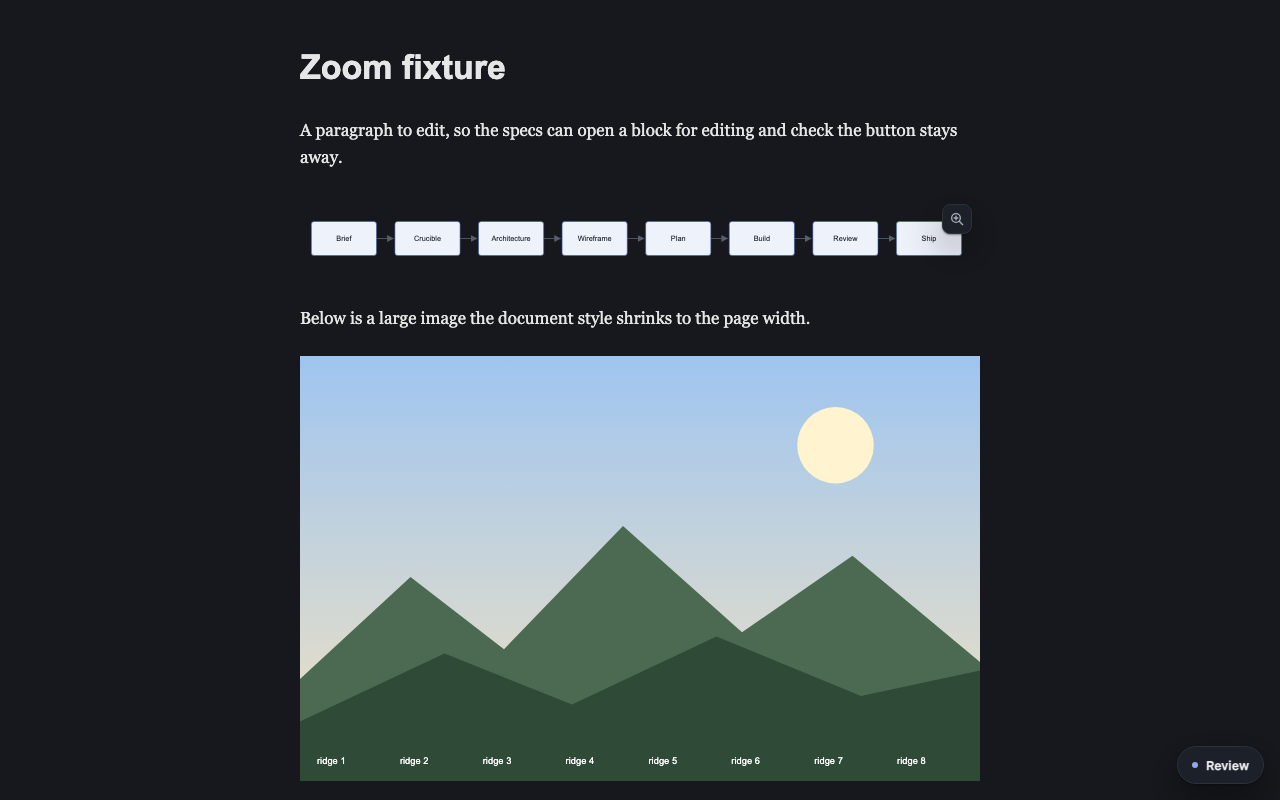
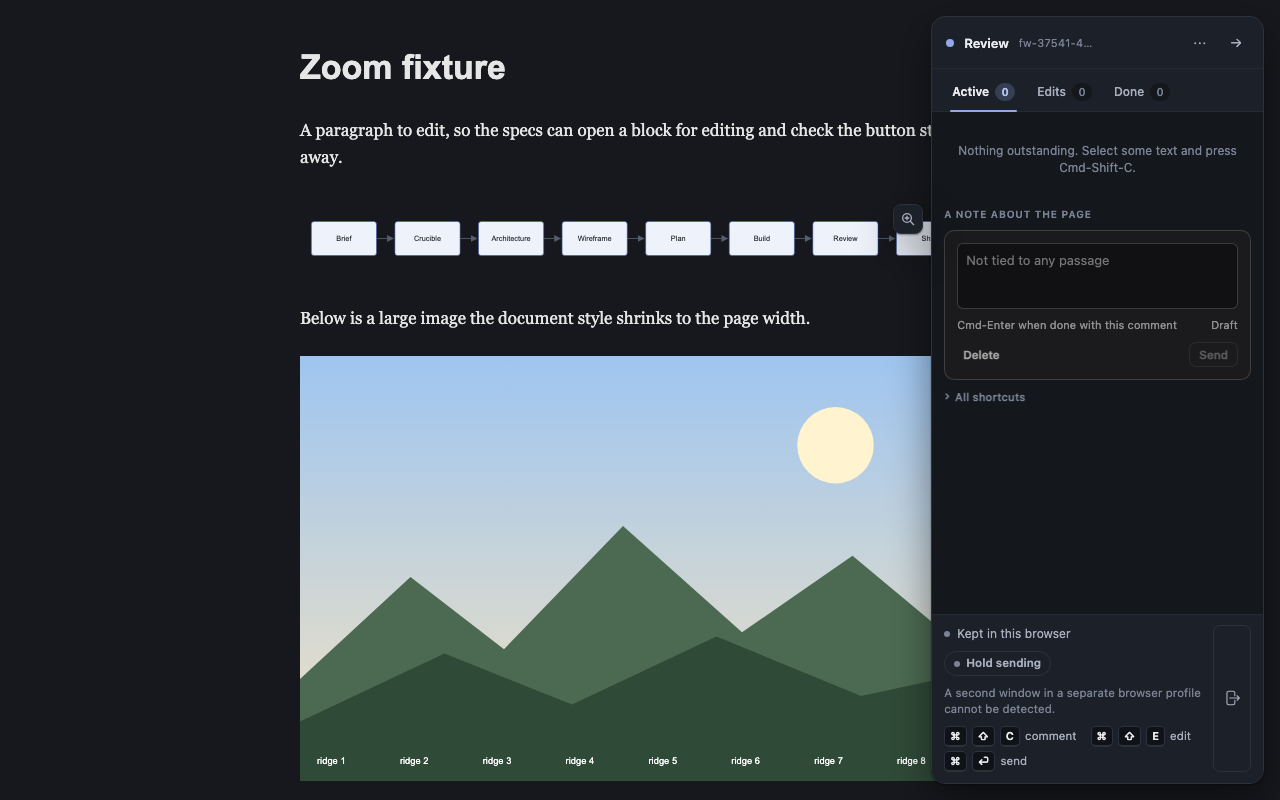
Zoom viewer: put the button on the picture's visible part, clear of the open rail
Found on a real page (the module map rendered, rail open, 1280x800): the
button sat at the target's own top right corner. The wide graph passed under
the open rail, so the button drew on the rail, inside its note box. The graph
is also very tall, and once scrolled the corner was off screen.

The button now goes at the top right of the target's visible part: its rect
cut to the window and, while the rail is open, to the left of the rail. The
rail's edge is read the way comments.js and editing.js already keep clear of
it, from the allowance the rail publishes on the library's host. That number
stays published while the rail is collapsed, so boot passes a railOpen check.
When no visible part can hold the button there is none. Scroll and resize
reposition it at most once a frame.

The placement is a pure function (buttonSpot) with unit tests. Browser tests
cover the rail-open case, a tall graph scrolled past its top, and the button
following a scroll. The last two passed before this change too, since the old
placement already clamped to the window; they stay as regression tests.
Screenshots of the button are retaken with the rail open.

diff --git a/src/layer/zoom.js b/src/layer/zoom.js
@@ -198,6 +198,31 @@
     return Math.max(shown.width, shown.height) >= IMG_MIN_LONG;
   }
 
+  /**
+   * Where the button goes: the top right corner of the picture's VISIBLE part,
+   * which is its rect cut to the window and, when the rail is open, to the left
+   * of the rail. The picture's own corner is the wrong place twice over: on a
+   * tall graph scrolled past its top it is off screen, and on a wide one that
+   * passes under the open rail it lands on the rail (Ken's module map, with the
+   * button inside the rail's note box).
+   *
+   * @param {{left:number,top:number,right:number,bottom:number}} r the picture's rect
+   * @param {number} vw
+   * @param {number} vh
+   * @param {number|null} railLeft the open rail's left edge, or null when it is collapsed
+   * @returns {{left:number,top:number}|null} null when no visible part can hold a button
+   */
+  function buttonSpot(r, vw, vh, railLeft) {
+    var right = Math.min(r.right, vw);
+    if (railLeft !== null && railLeft !== undefined) right = Math.min(right, railLeft);
+    var left = Math.max(r.left, 0);
+    var top = Math.max(r.top, 0);
+    var bottom = Math.min(r.bottom, vh);
+    var need = BUTTON_SIZE + 2 * BUTTON_INSET;
+    if (right - left < need || bottom - top < need) return null;
+    return { left: right - BUTTON_INSET - BUTTON_SIZE, top: top + BUTTON_INSET };
+  }
+
   /** The view that fits w by h into the window with a margin, centred. */
   function fitView(vw, vh, w, h, margin) {
     var m = margin === undefined ? MARGIN : margin;
@@ -329,6 +354,7 @@
    * @param {Window}   [opts.window]
    * @param {object}   [opts.highlights]  the library's one surface (highlight.shared)
    * @param {function} [opts.blocked]     true while editing, picking or presenting
+   * @param {function} [opts.railOpen]    true while the rail is open (not collapsed)
    * @param {object}   [opts.listeners]   the listener registry
    */
   function createZoom(options) {
@@ -338,6 +364,8 @@
     var highlights = opts.highlights || highlightModule.shared;
     var registry = opts.listeners || listeners.shared;
     var blockedBy = typeof opts.blocked === "function" ? opts.blocked : function () { return false; };
+    // Is the rail open right now? Boot answers from the rail itself.
+    var railOpen = typeof opts.railOpen === "function" ? opts.railOpen : function () { return false; };
 
     var dom = null; // { host, shadow, button, viewer, content, pct, controls }
     var handles = [];
@@ -485,17 +513,30 @@
     // The button
     // -------------------------------------------------------------------------
 
+    /**
+     * The open rail's left edge, or null while it is collapsed.
+     *
+     * Read the way comments.js and editing.js keep clear of the rail: the rail
+     * publishes how much of the right edge it takes as a custom property on the
+     * library's one page-level host (highlight.RAIL_ALLOWANCE_PROP), because its
+     * own rect is inside its closed root. That number stays published while the
+     * rail is collapsed, so whether it is open comes from boot (opts.railOpen).
+     */
+    function railLeft() {
+      if (!railOpen()) return null;
+      var host = doc.getElementById(highlightModule.SURFACE_ID);
+      if (!host) return null;
+      var px = parseFloat(win.getComputedStyle(host).getPropertyValue(highlightModule.RAIL_ALLOWANCE_PROP));
+      return isFinite(px) && px > 0 ? win.innerWidth - px : null;
+    }
+
+    /** Put the button on the target's visible part. False when there is none. */
     function placeButton() {
-      if (!dom || !target) return;
-      var r = target.getBoundingClientRect();
-      var vw = win.innerWidth;
-      var vh = win.innerHeight;
-      var left = Math.min(r.right, vw) - BUTTON_INSET - BUTTON_SIZE;
-      var top = Math.max(r.top, 0) + BUTTON_INSET;
-      // Kept on the picture while any of it is on screen.
-      top = Math.min(top, Math.min(r.bottom, vh) - BUTTON_SIZE - BUTTON_INSET);
-      left = Math.max(left, Math.max(r.left, 0) + BUTTON_INSET);
-      dom.button.style.transform = "translate(" + Math.round(left) + "px," + Math.round(top) + "px)";
+      if (!dom || !target) return false;
+      var spot = buttonSpot(target.getBoundingClientRect(), win.innerWidth, win.innerHeight, railLeft());
+      if (!spot) return false;
+      dom.button.style.transform = "translate(" + Math.round(spot.left) + "px," + Math.round(spot.top) + "px)";
+      return true;
     }
 
     function cancelHide() {
@@ -514,7 +555,10 @@
       }
       target = next;
       focusOrigin = origin || null;
-      placeButton();
+      if (!placeButton()) {
+        hideNow();
+        return;
+      }
       dom.button.setAttribute("data-shown", "true");
       shown = true;
     }
@@ -626,9 +670,17 @@
       dom.button.focus();
     }
 
+    // Scroll and resize move the visible part, so the button follows, once a
+    // frame at most: a scroll fires far more often than the screen repaints.
+    var placeFrame = null;
+
     function onScrollOrResize() {
       lastNode = null;
-      if (shown && !openOn) placeButton();
+      if (!shown || openOn || placeFrame !== null) return;
+      placeFrame = win.requestAnimationFrame(function () {
+        placeFrame = null;
+        if (shown && !openOn && !placeButton()) hideNow();
+      });
     }
 
     // -------------------------------------------------------------------------
@@ -909,6 +961,8 @@
     }
 
     function teardown() {
+      if (placeFrame !== null) win.cancelAnimationFrame(placeFrame);
+      placeFrame = null;
       close();
       hideNow();
       unbind();
@@ -994,6 +1048,9 @@
     SVG_MIN_SIDE: SVG_MIN_SIDE,
     IMG_MIN_LONG: IMG_MIN_LONG,
     MIN_SIDE: MIN_SIDE,
+    BUTTON_SIZE: BUTTON_SIZE,
+    BUTTON_INSET: BUTTON_INSET,
+    buttonSpot: buttonSpot,
     MARGIN: MARGIN,
     MIN_SCALE: MIN_SCALE,
     MAX_SCALE: MAX_SCALE,

diff --git a/test/browser/zoom_viewer.spec.js b/test/browser/zoom_viewer.spec.js
@@ -148,6 +148,66 @@ test.describe("zoom viewer: the hover button", () => {
     });
   });
 
+  test("rail open: the button keeps clear of the rail, on the graph's visible part", async ({ page }) => {
+    await open(page);
+    await page.evaluate(() => window.__lahe.rail.collapse(false));
+    const rail = await page.evaluate(() => window.__lahe.rail.geometry().rail);
+    expect(rail, "the rail is open").not.toBeNull();
+    // Over the left half of the graph, which is clear of the rail.
+    await page.evaluate(() => document.querySelector("#mermaid-1").scrollIntoView({ block: "center" }));
+    const svg = await page.locator("#mermaid-1").boundingBox();
+    expect(svg.x + svg.width, "the graph passes under the rail").toBeGreaterThan(rail.left);
+    await page.mouse.move(svg.x + 40, svg.y + svg.height / 2, { steps: 4 });
+    const button = await buttonShownFor(page, "mermaid-1");
+    const b = button.rect;
+    const overlaps = b.x < rail.right && rail.left < b.x + b.width && b.y < rail.bottom && rail.top < b.y + b.height;
+    expect(overlaps, "the button is not on the rail").toBe(false);
+    expect(b.x).toBeGreaterThanOrEqual(svg.x);
+    expect(b.x + b.width).toBeLessThanOrEqual(rail.left);
+    expect(b.y).toBeGreaterThanOrEqual(svg.y);
+    expect(b.y + b.height).toBeLessThanOrEqual(svg.y + svg.height);
+  });
+
+  test("a tall graph scrolled past its top: the button is on screen, on the graph", async ({ page }) => {
+    await open(page);
+    // The middle of the graph in the middle of the window, so its top is far above.
+    await page.evaluate(() => {
+      const r = document.getElementById("tall").getBoundingClientRect();
+      window.scrollBy(0, r.top + r.height / 2 - window.innerHeight / 2);
+    });
+    const svg = await page.locator("#tall").boundingBox();
+    expect(svg.y, "the graph's top is off screen").toBeLessThan(0);
+    await page.mouse.move(svg.x + 100, 400, { steps: 4 });
+    const b = (await buttonShownFor(page, "tall")).rect;
+    const vp = page.viewportSize();
+    expect(b.y).toBeGreaterThanOrEqual(0);
+    expect(b.y + b.height).toBeLessThanOrEqual(vp.height);
+    expect(b.x).toBeGreaterThanOrEqual(svg.x);
+    expect(b.x + b.width).toBeLessThanOrEqual(svg.x + svg.width);
+  });
+
+  test("scrolling while a graph is hovered: the button follows", async ({ page }) => {
+    await open(page);
+    await page.evaluate(() => document.querySelector("#tall").scrollIntoView({ block: "start" }));
+    const svg = await page.locator("#tall").boundingBox();
+    await page.mouse.move(svg.x + 100, svg.y + 200, { steps: 4 });
+    const before = (await buttonShownFor(page, "tall")).rect;
+    // The page moves under a still pointer: down 300, so the graph's top is
+    // above the window and the button has to come down with the visible part.
+    await page.evaluate(() => window.scrollBy(0, 300));
+    await pollPage(
+      page,
+      (y) => {
+        const b = window.__lahe.handle.zoom.info().button;
+        return b.shown && Math.abs(b.rect.y - y) < 1;
+      },
+      before.y,
+      { message: "the button to stay at the top of the visible part after scrolling" }
+    );
+    const top = (await page.locator("#tall").boundingBox()).y;
+    expect(top, "the graph's own top moved off screen").toBeLessThan(0);
+  });
+
   test("a nested svg gets no button of its own: the outer one does", async ({ page }) => {
     await open(page);
     await page.evaluate(() => document.querySelector("#outer").scrollIntoView({ block: "center" }));
@@ -436,15 +496,19 @@ test.describe("zoom viewer: screenshots", () => {
     test("hover button and zoomed viewer, " + scheme, async ({ page }) => {
       await page.setViewportSize({ width: 1280, height: 800 });
       await open(page, scheme === "dark" ? "?dark" : "");
-      await hoverOn(page, "#mermaid-1");
-      const button = await buttonShownFor(page, "mermaid-1");
-      await page.mouse.move(centre(button.rect).x - 120, centre(button.rect).y + 30);
+      // The rail open over the wide graph's right end, so the picture shows the
+      // button kept clear of it.
+      await page.evaluate(() => window.__lahe.rail.collapse(false));
+      await page.evaluate(() => document.querySelector("#mermaid-1").scrollIntoView({ block: "center" }));
+      const svg = await page.locator("#mermaid-1").boundingBox();
+      await page.mouse.move(svg.x + 160, svg.y + svg.height / 2, { steps: 4 });
       await buttonShownFor(page, "mermaid-1");
       await pollPage(page, () => window.__lahe.handle.zoom.info().button.opacity === 1, undefined, {
         message: "the button's fade-in to finish"
       });
       await page.screenshot({ path: path.join(SHOT_DIR, "button_" + scheme + ".png") });
 
+      await page.evaluate(() => window.__lahe.rail.collapse(true));
       const viewer = await openViewerOn(page, "#mermaid-1");
       const at = { x: viewer.contentRect.x + viewer.contentRect.width * 0.35, y: viewer.contentRect.y + viewer.contentRect.height / 2 };
       await page.mouse.move(at.x, at.y);

diff --git a/test/fixtures/zoom/zoom.html b/test/fixtures/zoom/zoom.html
@@ -39,6 +39,7 @@
       <text x="220" y="105" font-family="Arial" font-size="18" fill="#333">nested svg</text>
     </svg>
   </figure>
+  <figure><svg id="tall" xmlns="http://www.w3.org/2000/svg" width="600" height="2400" viewBox="0 0 600 2400"><rect width="600" height="2400" fill="#f1ede4"/><rect x="40" y="60" width="120" height="60" fill="#3c56a5"/><text x="40" y="50" font-family="Arial" font-size="18" fill="#333">step 1</text><rect x="40" y="260" width="145" height="60" fill="#3c56a5"/><text x="40" y="250" font-family="Arial" font-size="18" fill="#333">step 2</text><rect x="40" y="460" width="170" height="60" fill="#3c56a5"/><text x="40" y="450" font-family="Arial" font-size="18" fill="#333">step 3</text><rect x="40" y="660" width="195" height="60" fill="#3c56a5"/><text x="40" y="650" font-family="Arial" font-size="18" fill="#333">step 4</text><rect x="40" y="860" width="220" height="60" fill="#3c56a5"/><text x="40" y="850" font-family="Arial" font-size="18" fill="#333">step 5</text><rect x="40" y="1060" width="245" height="60" fill="#3c56a5"/><text x="40" y="1050" font-family="Arial" font-size="18" fill="#333">step 6</text><rect x="40" y="1260" width="270" height="60" fill="#3c56a5"/><text x="40" y="1250" font-family="Arial" font-size="18" fill="#333">step 7</text><rect x="40" y="1460" width="295" height="60" fill="#3c56a5"/><text x="40" y="1450" font-family="Arial" font-size="18" fill="#333">step 8</text><rect x="40" y="1660" width="320" height="60" fill="#3c56a5"/><text x="40" y="1650" font-family="Arial" font-size="18" fill="#333">step 9</text><rect x="40" y="1860" width="345" height="60" fill="#3c56a5"/><text x="40" y="1850" font-family="Arial" font-size="18" fill="#333">step 10</text><rect x="40" y="2060" width="370" height="60" fill="#3c56a5"/><text x="40" y="2050" font-family="Arial" font-size="18" fill="#333">step 11</text><rect x="40" y="2260" width="395" height="60" fill="#3c56a5"/><text x="40" y="2250" font-family="Arial" font-size="18" fill="#333">step 12</text></svg></figure>
   <svg id="hidden-svg" width="600" height="400" viewBox="0 0 600 400"><rect width="600" height="400"/></svg>
   <p id="elsewhere">Where the graph's linked node points.</p>
   <p id="linked">The end of the page, where the photo's link points.</p>

diff --git a/test/unit/zoom.test.js b/test/unit/zoom.test.js
@@ -98,3 +98,30 @@ test("an svg sized in percent or other units falls back to its viewBox", () => {
   assert.deepEqual([em.width, em.height], [100, 40]);
   assert.equal(zoom.svgOwnSize(fakeSvg({}, null)), null);
 });
+
+test("the button sits at the top right of the picture's visible part", () => {
+  const S = zoom.BUTTON_SIZE;
+  const I = zoom.BUTTON_INSET;
+  // Wholly on screen, no rail: the picture's own corner.
+  assert.deepEqual(zoom.buttonSpot({ left: 300, top: 200, right: 980, bottom: 300 }, 1280, 800, null), {
+    left: 980 - I - S,
+    top: 200 + I
+  });
+  // The rail open from x 872: the corner moves left of it.
+  assert.deepEqual(zoom.buttonSpot({ left: 128, top: 200, right: 1152, bottom: 600 }, 1280, 800, 872), {
+    left: 872 - I - S,
+    top: 200 + I
+  });
+  // Scrolled so the top is off screen: the corner is at the viewport's top.
+  assert.deepEqual(zoom.buttonSpot({ left: 300, top: -1500, right: 900, bottom: 900 }, 1280, 800, null), {
+    left: 900 - I - S,
+    top: I
+  });
+});
+
+test("no button when no visible part is big enough to hold one", () => {
+  // Under the rail all but 20px.
+  assert.equal(zoom.buttonSpot({ left: 852, top: 200, right: 1200, bottom: 600 }, 1280, 800, 872), null);
+  // Only a sliver showing at the bottom of the window.
+  assert.equal(zoom.buttonSpot({ left: 300, top: 790, right: 900, bottom: 1400 }, 1280, 800, null), null);
+});

diff --git a/src/layer/index.js b/src/layer/index.js
@@ -875,6 +875,10 @@
         if (comments.pickMode().active === true) return true;
         if (editing.isEditing()) return true;
         return typeof editing.isInEditState === "function" && editing.isInEditState();
+      },
+      // The button keeps clear of the rail only while the rail is open.
+      railOpen: function () {
+        return !rail.isCollapsed() && !rail.isPresenting();
       }
     });
     zoom.bind();

diff --git a/docs/features/20261007.01_zoom_viewer/01_spec_zoom_viewer.md b/docs/features/20261007.01_zoom_viewer/01_spec_zoom_viewer.md
@@ -64,10 +64,11 @@ Where the build reads the spec a certain way:
 - **Keyboard.** When focus lands on a page element that holds exactly one qualifying picture, such as a link around an image, the button shows. Tab moves focus to the button, and Shift-Tab goes back. Inside the viewer, Tab cycles through the toolbar.
 - **Keys in the viewer.** Plus and minus zoom, 0 fits, 1 shows actual size, and the arrow keys pan the way a map does. Esc closes. Keys the viewer uses do not reach the page.
 - **Background.** A transparent graph is drawn on the background color it had on the page.
+- **Where the button sits.** It goes at the top right of the picture's visible part, not its own corner. The visible part is the picture cut to the window and, while the rail is open, to the left of the rail. A tall graph scrolled past its top still shows the button on screen, and a wide graph passing under the open rail gets the button left of the rail. If no visible part is big enough to hold the button, there is none. It follows scrolling and resizing, at most once a frame.
 
 Proof: `test/browser/zoom_viewer.spec.js` covers each row of the table above. `test/unit/zoom.test.js` covers the size rules and the zoom arithmetic. The screenshots below come from that spec's screenshot test (`LAHE_ZOOM_SHOTS=1`), and the run that produced them also passed every other test in the file.
 
-Hover button on a wide Mermaid-style graph, light and dark:
+Hover button on a wide Mermaid-style graph with the rail open over its right end, light and dark:
 
 ![Hover button, light page](button_light.png)
 
